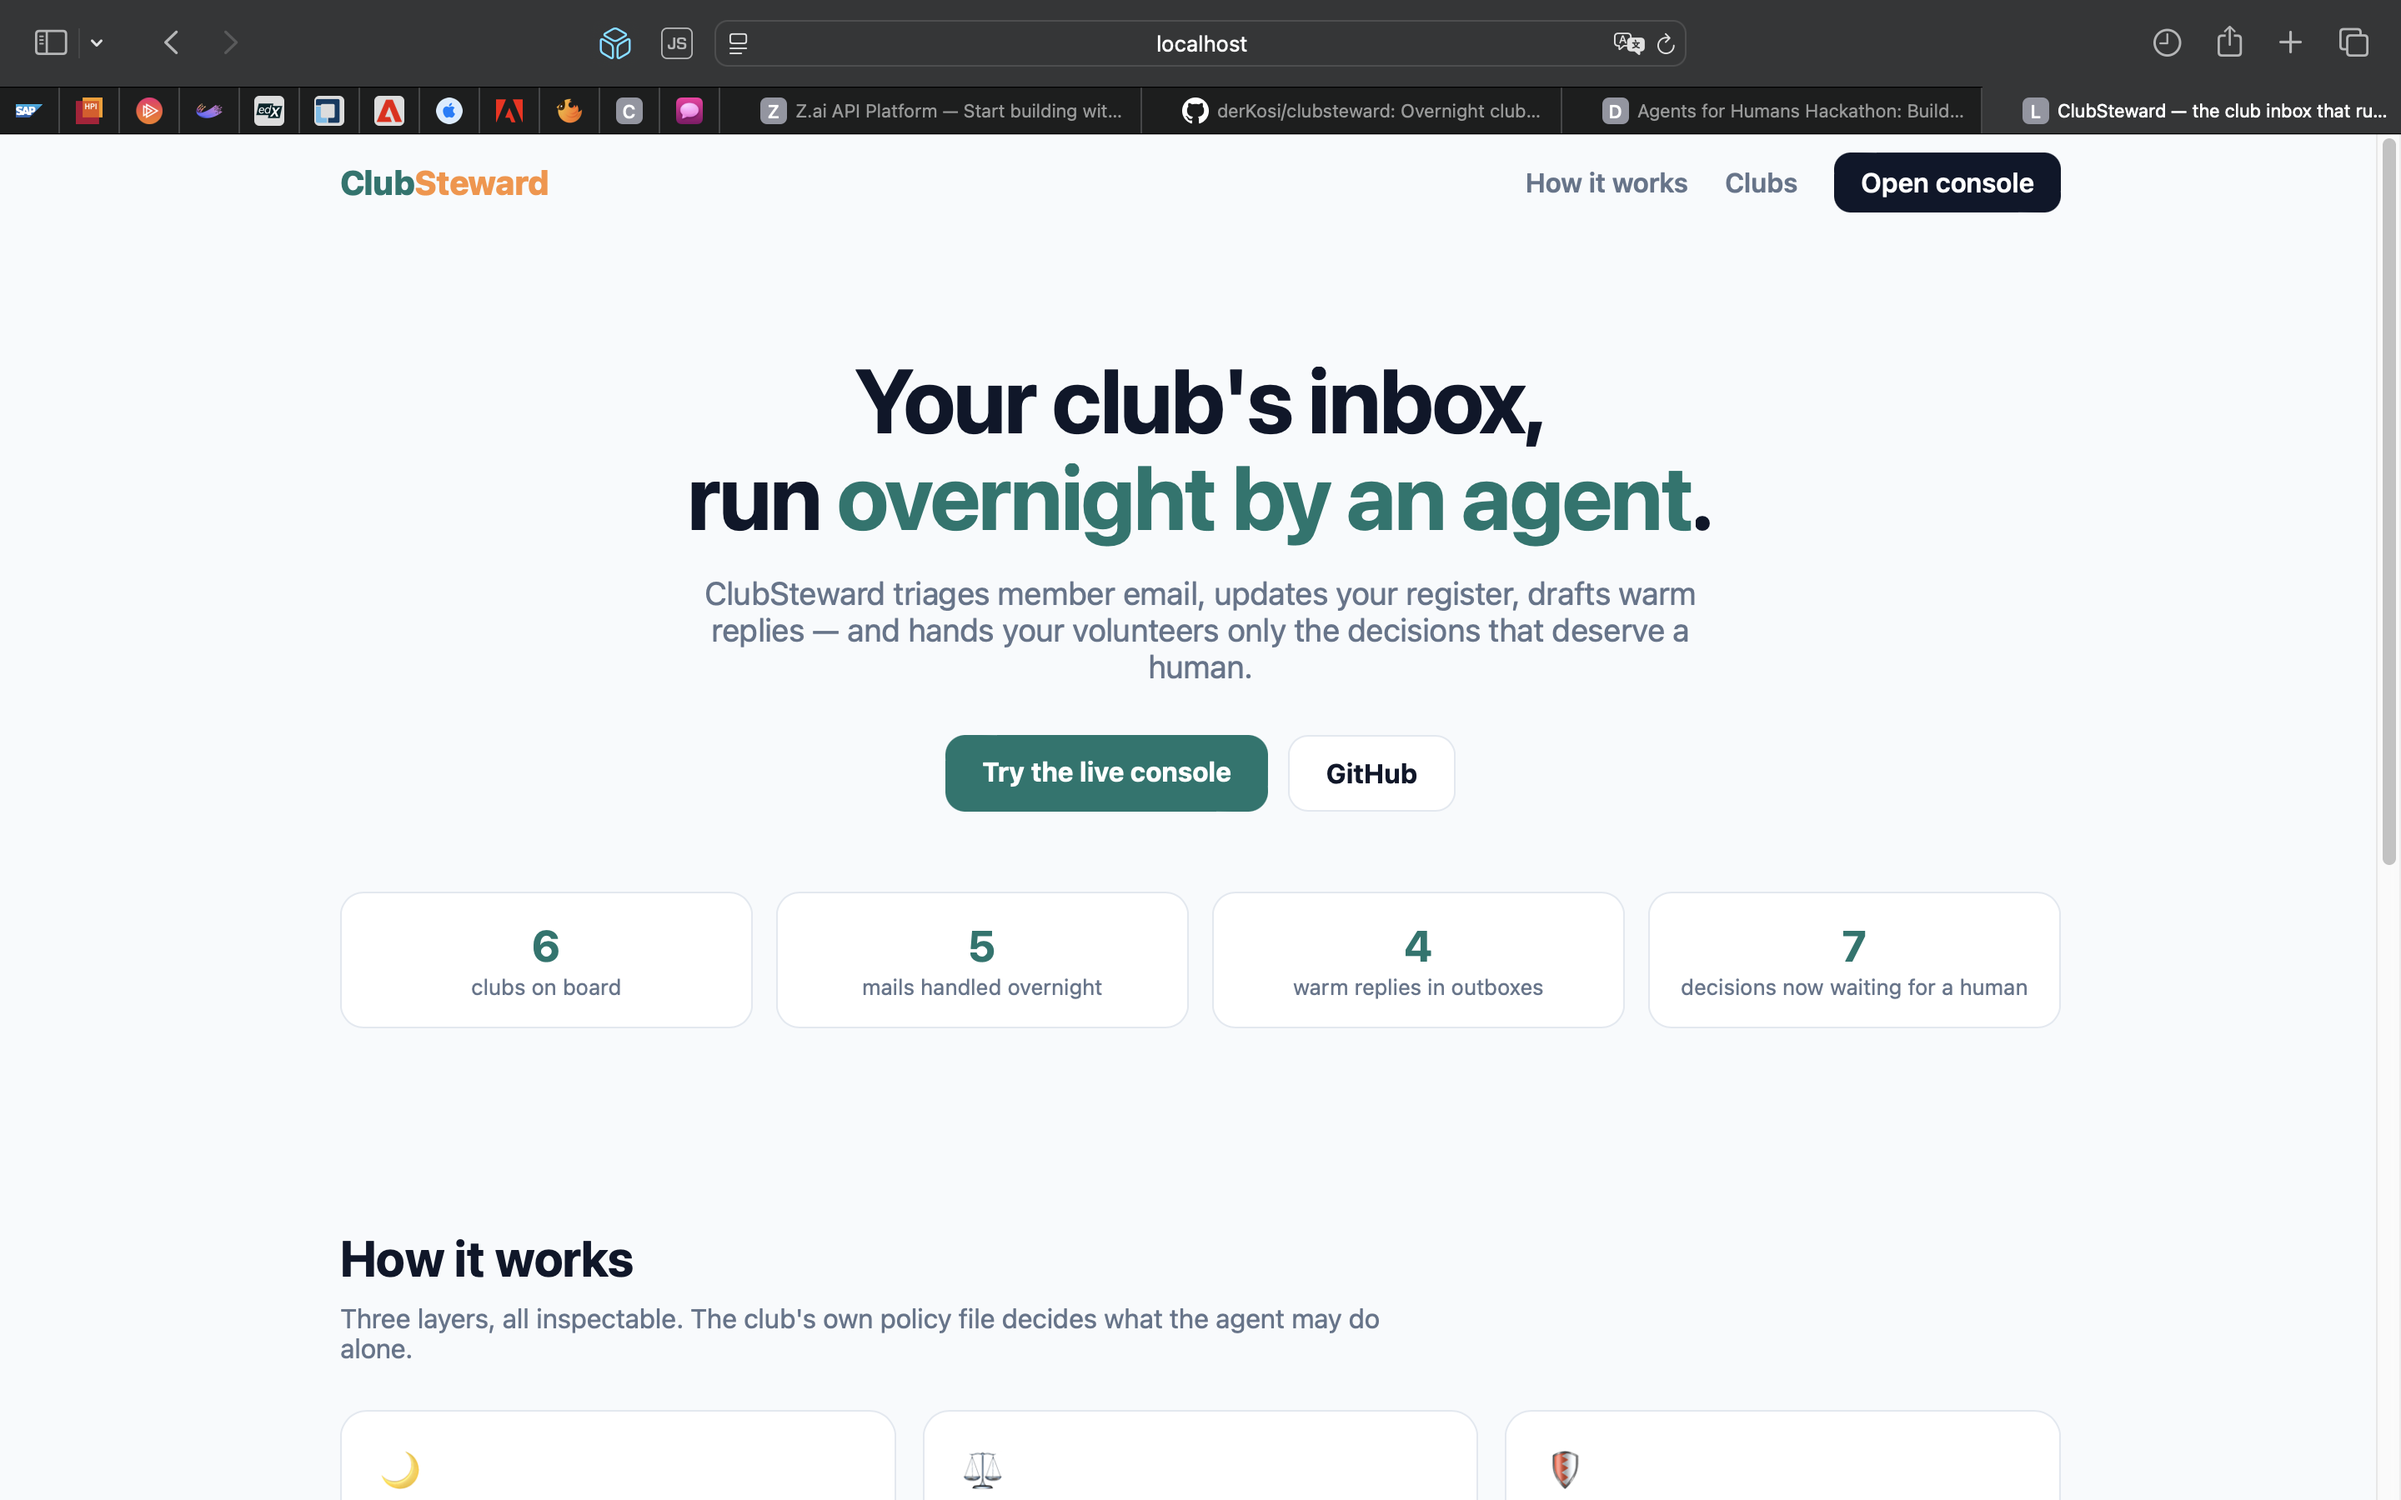
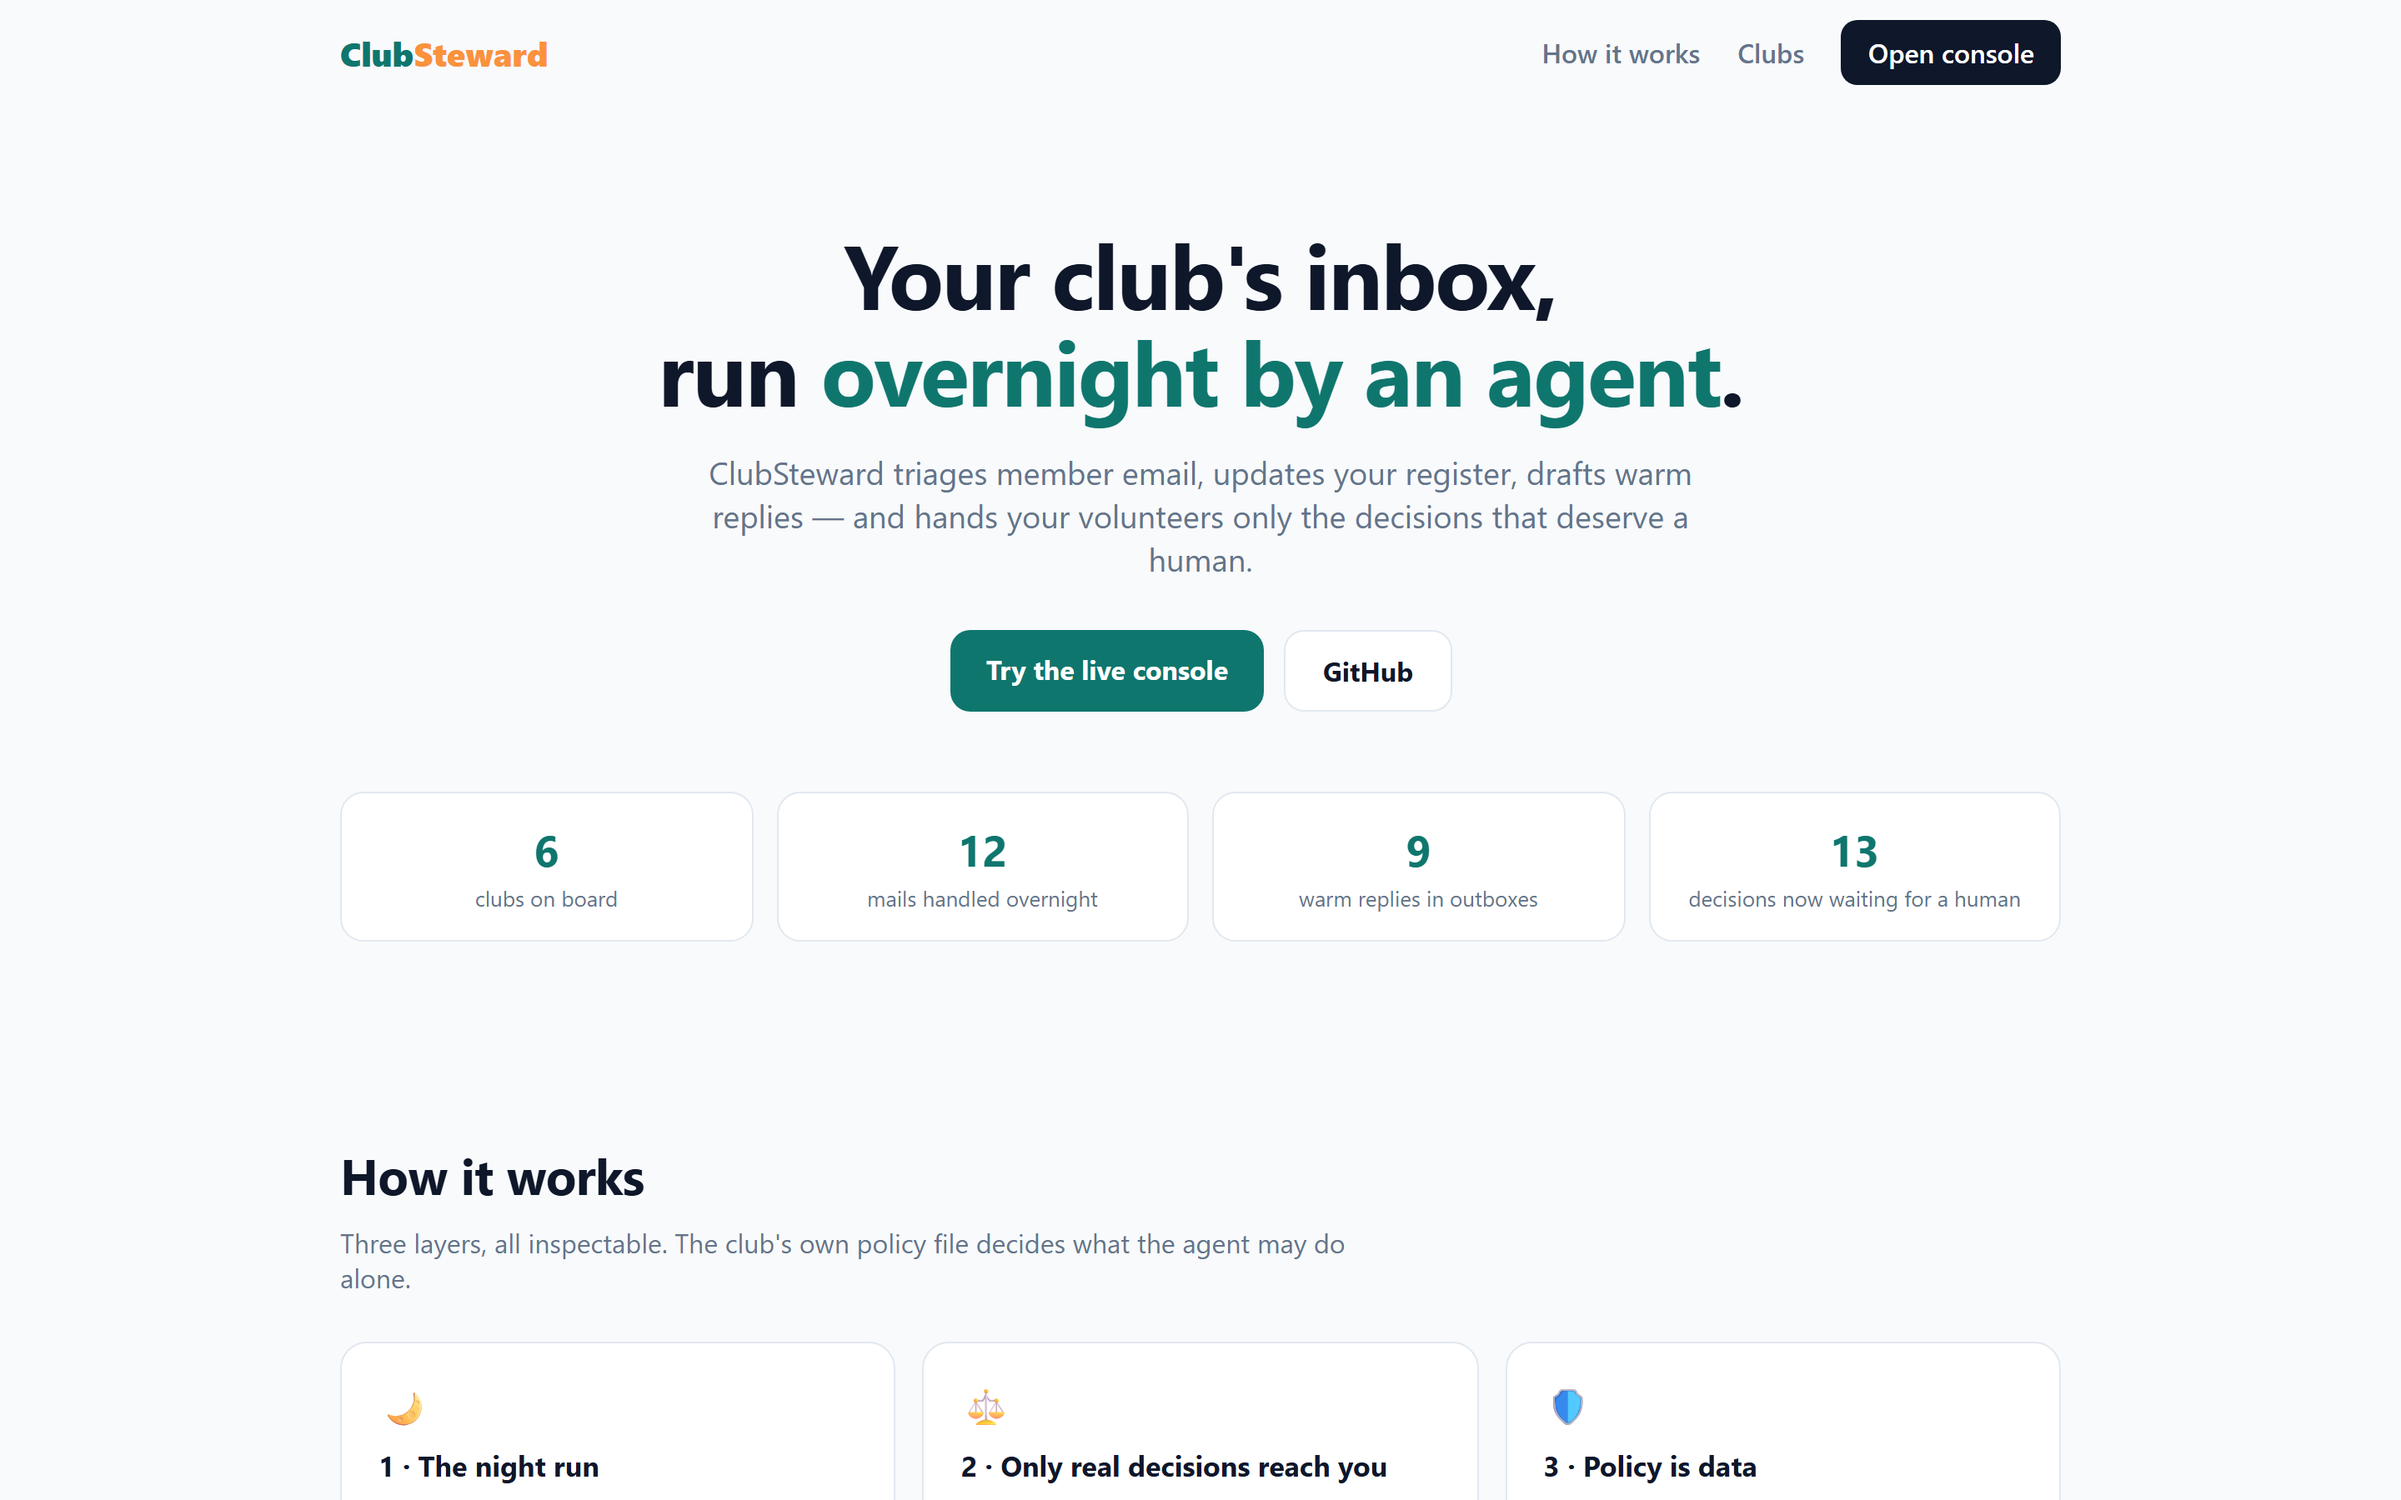
docs(screenshots): re-shot gallery on Maplewood basis
All seven Devpost screenshots regenerated to match the reworked video:
pageshots at 2880x1800 (hero, console, decisions, decision card with
the instruct box open, outbox pairs) plus lossless frames from the v2
recording for the step-mode panel and the streaming night-run log.
Same filenames — README references unchanged.

diff --git a/scripts/make_screenshots.py b/scripts/make_screenshots.py
@@ -1,0 +1,67 @@
+"""Devpost screenshots v2 — Maplewood basis. Overwrites docs/screenshots/01..07.
+
+Pageshots (1440x900, dsf 2) for hero/console/decisions/card/outbox;
+03-step-mode and 07-runnight are frames cut from the v2 video clips
+(those UI states only exist inside a live session).
+
+Prereq: maplewood-little restored to the beat-05 snapshot state.
+"""
+from __future__ import annotations
+
+from pathlib import Path
+
+from playwright.sync_api import sync_playwright
+
+ROOT = Path(__file__).resolve().parent.parent
+SHOTS = ROOT / "docs" / "screenshots"
+BASE = "http://127.0.0.1:8765"
+
+
+def main() -> int:
+    SHOTS.mkdir(parents=True, exist_ok=True)
+    with sync_playwright() as pw:
+        browser = pw.chromium.launch(headless=True)
+        ctx = browser.new_context(viewport={"width": 1440, "height": 900}, device_scale_factor=2)
+        page = ctx.new_page()
+        page.set_default_timeout(20_000)
+
+        # 01 — hero page: H1, sub, CTAs, live stats
+        page.goto(BASE + "/")
+        page.wait_for_selector("#stats b")
+        page.wait_for_timeout(1200)
+        page.screenshot(path=str(SHOTS / "01-hero-page.png"))
+
+        # 02 — console top: chips, KPIs, inbox with pending decisions badge
+        page.goto(BASE + "/app?club=maplewood-little")
+        page.wait_for_selector(".inbox-row")
+        page.wait_for_timeout(800)
+        page.screenshot(path=str(SHOTS / "02-console.png"))
+
+        # 04 — decisions section with the queued cards
+        page.locator("#decisions").scroll_into_view_if_needed()
+        page.wait_for_timeout(600)
+        page.screenshot(path=str(SHOTS / "04-decisions.png"))
+
+        # 05 — Danny's EpiPen card with the instruct box open (human-in-the-loop)
+        danny = page.locator(".dec", has_text="Registering Danny")
+        danny.scroll_into_view_if_needed()
+        danny.locator(".btn-edit").click()          # ✎ Approve + instruct
+        danny.locator("textarea").wait_for(state="visible")
+        danny.locator("textarea").fill(
+            "Confirm with Rachel: coaches will be briefed, EpiPen stays in Danny's backpack."
+        )
+        page.wait_for_timeout(400)
+        danny.screenshot(path=str(SHOTS / "05-decision-card.png"))
+
+        # 06 — outbox: first pair (scholarship draft) open next to the mail
+        page.locator("#outbox").scroll_into_view_if_needed()
+        page.wait_for_timeout(600)
+        page.screenshot(path=str(SHOTS / "06-outbox-pair.png"))
+
+        browser.close()
+    print("pageshots done")
+    return 0
+
+
+if __name__ == "__main__":
+    raise SystemExit(main())
